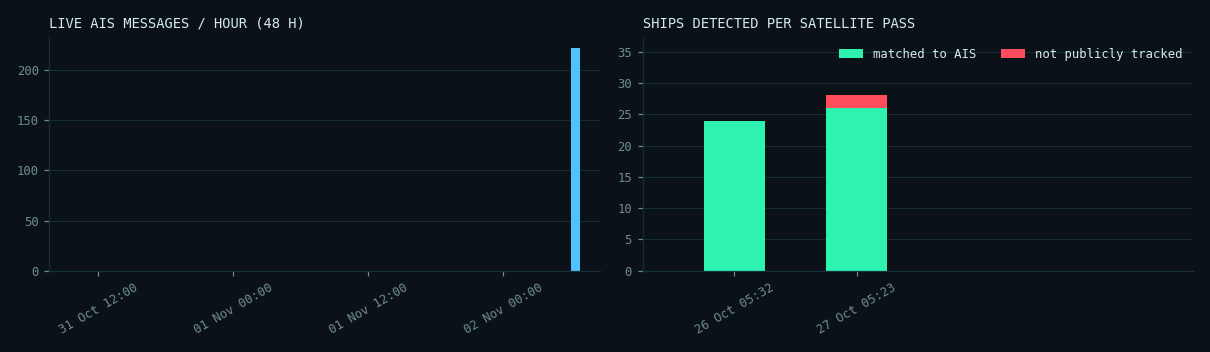
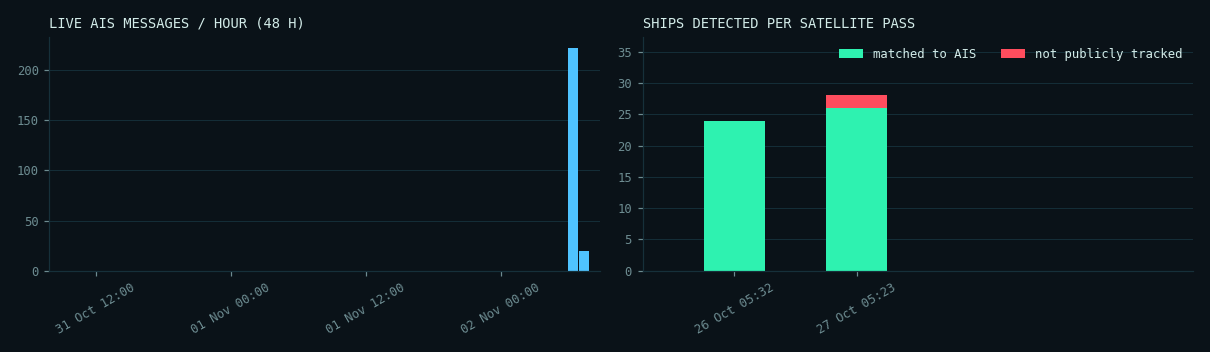
Automatic site update 2026-11-02 07:53 UTC

diff --git a/docs/denmark/index.html b/docs/denmark/index.html
@@ -80,15 +80,15 @@ footer{border-top:1px solid var(--line);padding:18px 0 28px;font:12px/1.6 var(--
 <header class="hud"><div class="wrap"><div class="hudrow">
  <a class="brand" href="../index.html"><div class="scope"><div class="sweep"></div><span class="blip" style="left:32px;top:14px"></span><span class="blip" style="left:15px;top:33px;animation-delay:1.1s"></span></div>
   <div><div class="kicker">SAR &times; AIS &middot; MARITIME AWARENESS</div><div class="title">DARK VESSEL <b>DETECTION</b></div></div></a>
- <div class="status"><span class="pill"><span class="dot off"></span>AIS FEED <strong>OFFLINE</strong></span>
+ <div class="status"><span class="pill"><span class="dot live"></span>AIS FEED <strong>LIVE</strong></span>
   <span class="pill">UTC <strong id="utc">--:--:--</strong></span>
-  <span class="pill">UPDATED <strong>02 Nov 07:39</strong></span></div>
+  <span class="pill">UPDATED <strong>02 Nov 07:53</strong></span></div>
 </div><nav class="tabs"><a class="" href="../index.html">OVERVIEW</a><a class="" href="../mumbai/index.html">MUMBAI</a><a class="on" href="../denmark/index.html">DENMARK</a><a class="" href="../nn/index.html">NEURAL NET</a><a class="" href="../demo/index.html">SIMULATION</a></nav></div></header>
 <main class="wrap"><div class="coords">SECTOR // DENMARK &middot; 55.55&ndash;55.85&deg;N &middot; 12.55&ndash;12.95&deg;E</div>
 <h1>Oresund, Copenhagen (Denmark/Sweden)</h1><p class="lede">Validation area. Sentinel-1 images it almost daily and coastal AIS coverage is dense, so the full match between radar and AIS can be shown and checked.</p>
 <div class="grid">
- <div class="panel"><div class="label">Live AIS feed</div><div class="value small"><span class='bad'>NO SIGNAL</span></div><div class="muted mono" style="font-size:12px;margin-top:6px">last message 43 min ago</div></div>
- <div class="panel"><div class="label">Ships broadcasting &middot; 30 min</div><div class="value cyan">0</div></div>
+ <div class="panel"><div class="label">Live AIS feed</div><div class="value small"><span class='ok'>RECEIVING</span></div><div class="muted mono" style="font-size:12px;margin-top:6px">last message 0 min ago</div></div>
+ <div class="panel"><div class="label">Ships broadcasting &middot; 30 min</div><div class="value cyan">19</div></div>
  <div class="panel"><div class="label">Matched &middot; latest pass</div><div class="value ">26</div></div>
  <div class="panel"><div class="label">Not tracked &middot; latest pass</div><div class="value red">2</div></div>
 </div>
@@ -96,7 +96,7 @@ footer{border-top:1px solid var(--line);padding:18px 0 28px;font:12px/1.6 var(--
 <div class="legend"><span><i style="background:var(--green)"></i>matched to AIS</span><span><i style="background:var(--red)"></i>not tracked &middot; high confidence</span>
 <span><i style="background:var(--amber)"></i>not tracked &middot; low confidence</span><span><i style="background:var(--cyan)"></i>live AIS position</span></div>
 <div id="map" class="map"></div><script>
-const D=[{"lon": 12.574560869565218, "lat": 55.849597826086956, "length_m": 72.681575622935, "score": 0.6554655519501138, "shore_km": 0.14150886088341372, "status": "matched", "reason": "", "confidence": "high", "crop": "", "ship_prob": 0.9335045218467712}, {"lon": 12.704759174311928, "lat": 55.82280412844037, "length_m": 364.1071436957287, "score": 0.9904753373251979, "shore_km": 9.407061429825474, "status": "matched", "reason": "", "confidence": "high", "crop": "", "ship_prob": 0.9868959784507751}, {"lon": 12.786416463414636, "lat": 55.804669512195126, "length_m": 155.0522474362954, "score": 0.9999646038759398, "shore_km": 4.658419014138412, "status": "matched", "reason": "", "confidence": "high", "crop": "", "ship_prob": 0.9993557333946228}, {"lon": 12.88229375, "lat": 55.849146875, "length_m": 53.38783327710226, "score": 0.9899546194309776, "shore_km": 0.9067240720863213, "status": "candidate", "reason": "same_spot_in_another_pass", "confidence": "low", "crop": "crops/S1-Oresund-20261027_37.png", "ship_prob": 0.7905591130256653}, {"lon": 12.604004166666668, "lat": 55.75985, "length_m": 141.84238362073958, "score": 0.6867268898684522, "shore_km": 0.07168283192738693, "status": "matched", "reason": "", "confidence": "high", "crop": "", "ship_prob": 0.5051270127296448}, {"lon": 12.605736764705883, "lat": 55.75241323529412, "length_m": 122.11483240811877, "score": 0.9136889320646264, "shore_km": 0.6454382429486746, "status": "candidate", "reason": "same_spot_in_another_pass", "confidence": "low", "crop": "crops/S1-Oresund-20261027_77.png", "ship_prob": 0.7927113175392151}, {"lon": 12.703722571428573, "lat": 55.77917742857143, "length_m": 223.0817648726515, "score": 0.9996320924909895, "shore_km": 5.943270442766068, "status": "matched", "reason": "", "confidence": "high", "crop": "", "ship_prob": 0.9938097596168518}, {"lon": 12.902757692307693, "lat": 55.75654230769231, "length_m": 65.46226537445588, "score": 0.7187896049600956, "shore_km": 0.03584141596369347, "status": "matched", "reason": "", "confidence": "high", "crop": "", "ship_prob": 0.8691755533218384}, {"lon": 12.589922222222222, "lat": 55.725764814814816, "length_m": 146.45480845096748, "score": 0.9957587025210503, "shore_km": 0.034771280891766385, "status": "matched", "reason": "", "confidence": "high", "crop": "", "ship_prob": 0.9983701109886169}, {"lon": 12.598472047244096, "lat": 55.72077913385827, "length_m": 207.62671185403417, "score": 0.609772230082722, "shore_km": 0.14016751439395445, "status": "matched", "reason": "", "confidence": "high", "crop": "", "ship_prob": 0.6074324250221252}, {"lon": 12.589218, "lat": 55.712854, "length_m": 90.49550243938293, "score": 0.6486089656085543, "shore_km": 0.043464101114707984, "status": "matched", "reason": "", "confidence": "high", "crop": "", "ship_prob": 0.9998902082443237}, {"lon": 12.59024090909091, "lat": 55.71147090909091, "length_m": 162.54265478639104, "score": 1.0, "shore_km": 0.06146752127277559, "status": "matched", "reason": "", "confidence": "high", "crop": "", "ship_prob": 0.9999992847442627}, {"lon": 12.597835937500001, "lat": 55.701648437500005, "length_m": 133.31776511703256, "score": 0.9396217092764791, "shore_km": 0.06789309632894441, "status": "matched", "reason": "", "confidence": "high", "crop": "", "ship_prob": 0.9999727010726929}, {"lon": 12.60914, "lat": 55.69712, "length_m": 65.36743236464424, "score": 0.7827588237578229, "shore_km": 0.03134240904220623, "status": "matched", "reason": "", "confidence": "high", "crop": "", "ship_prob": 0.9867132902145386}, {"lon": 12.668552272727274, "lat": 55.72007840909091, "length_m": 207.26605497726354, "score": 0.6251792307103263, "shore_km": 0.03584141596369347, "status": "matched", "reason": "", "confidence": "high", "crop": "", "ship_prob": 0.9087074398994446}, {"lon": 12.5996, "lat": 55.68885, "length_m": 40.00855981470757, "score": 0.7664068666153926, "shore_km": 0.024587008509110237, "status": "matched", "reason": "", "confidence": "high", "crop": "", "ship_prob": 0.9766618013381958}, {"lon": 12.595819230769232, "lat": 55.67989871794872, "length_m": 127.62371588738732, "score": 0.9426870407335851, "shore_km": 0.05068741655051085, "status": "matched", "reason": "", "confidence": "high", "crop": "", "ship_prob": 0.9998841285705566}, {"lon": 12.594722222222224, "lat": 55.67918888888889, "length_m": 40.64467714079742, "score": 0.7639524834029205, "shore_km": 0.043464101114707984, "status": "matched", "reason": "", "confidence": "high", "crop": "", "ship_prob": 0.9999454021453857}, {"lon": 12.610660714285714, "lat": 55.69618571428572, "length_m": 94.51225356515693, "score": 0.9621795096736379, "shore_km": 0.03134240904220623, "status": "matched", "reason": "", "confidence": "high", "crop": "", "ship_prob": 0.999042809009552}, {"lon": 12.649045000000001, "lat": 55.692155, "length_m": 80.63364746000343, "score": 0.8515033668168979, "shore_km": 0.8863693295037299, "status": "matched", "reason": "", "confidence": "high", "crop": "", "ship_prob": 0.4333752989768982}, {"lon": 12.630751724137932, "lat": 55.685453448275865, "length_m": 125.00287123881988, "score": 0.93629426700422, "shore_km": 0.043464101114707984, "status": "matched", "reason": "", "confidence": "high", "crop": "", "ship_prob": 0.9975905418395996}, {"lon": 12.634987254901962, "lat": 55.677338235294116, "length_m": 276.5478352749318, "score": 0.7686103584091717, "shore_km": 0.024587008509110237, "status": "matched", "reason": "", "confidence": "high", "crop": "", "ship_prob": 0.9729636907577515}, {"lon": 12.68766150442478, "lat": 55.69581814159292, "length_m": 176.8074930452176, "score": 0.923202226335388, "shore_km": 2.6834920471942074, "status": "matched", "reason": "", "confidence": "high", "crop": "", "ship_prob": 0.8427141904830933}, {"lon": 12.65826847826087, "lat": 55.63610108695652, "length_m": 174.21377549767067, "score": 0.9833187000337672, "shore_km": 0.043464101114707984, "status": "matched", "reason": "", "confidence": "high", "crop": "", "ship_prob": 0.9998973608016968}, {"lon": 12.680683333333334, "lat": 55.610910000000004, "length_m": 74.22790892756812, "score": 0.6314184609397504, "shore_km": 0.03134240904220623, "status": "matched", "reason": "", "confidence": "high", "crop": "", "ship_prob": 0.44054293632507324}, {"lon": 12.868352132196163, "lat": 55.60022420042644, "length_m": 299.20726350177785, "score": 0.9999960398718075, "shore_km": 2.8169298200726325, "status": "matched", "reason": "", "confidence": "high", "crop": "", "ship_prob": 0.9967911839485168}, {"lon": 12.680875, "lat": 55.59323, "length_m": 95.51211981545671, "score": 0.7585723176580392, "shore_km": 0.03584141596369347, "status": "matched", "reason": "", "confidence": "high", "crop": "", "ship_prob": 0.797581672668457}, {"lon": 12.706387741935485, "lat": 55.56306903225806, "length_m": 301.4640427512081, "score": 0.9999731380181186, "shore_km": 3.1965238712919084, "status": "matched", "reason": "", "confidence": "high", "crop": "", "ship_prob": 0.9941650032997131}],LIVE=[],B=[[55.55,12.55],[55.85,12.95]];const m=L.map('map',{zoomSnap:.25}).fitBounds(B);
+const D=[{"lon": 12.574560869565218, "lat": 55.849597826086956, "length_m": 72.681575622935, "score": 0.6554655519501138, "shore_km": 0.14150886088341372, "status": "matched", "reason": "", "confidence": "high", "crop": "", "ship_prob": 0.9335045218467712}, {"lon": 12.704759174311928, "lat": 55.82280412844037, "length_m": 364.1071436957287, "score": 0.9904753373251979, "shore_km": 9.407061429825474, "status": "matched", "reason": "", "confidence": "high", "crop": "", "ship_prob": 0.9868959784507751}, {"lon": 12.786416463414636, "lat": 55.804669512195126, "length_m": 155.0522474362954, "score": 0.9999646038759398, "shore_km": 4.658419014138412, "status": "matched", "reason": "", "confidence": "high", "crop": "", "ship_prob": 0.9993557333946228}, {"lon": 12.88229375, "lat": 55.849146875, "length_m": 53.38783327710226, "score": 0.9899546194309776, "shore_km": 0.9067240720863213, "status": "candidate", "reason": "same_spot_in_another_pass", "confidence": "low", "crop": "crops/S1-Oresund-20261027_37.png", "ship_prob": 0.7905591130256653}, {"lon": 12.604004166666668, "lat": 55.75985, "length_m": 141.84238362073958, "score": 0.6867268898684522, "shore_km": 0.07168283192738693, "status": "matched", "reason": "", "confidence": "high", "crop": "", "ship_prob": 0.5051270127296448}, {"lon": 12.605736764705883, "lat": 55.75241323529412, "length_m": 122.11483240811877, "score": 0.9136889320646264, "shore_km": 0.6454382429486746, "status": "candidate", "reason": "same_spot_in_another_pass", "confidence": "low", "crop": "crops/S1-Oresund-20261027_77.png", "ship_prob": 0.7927113175392151}, {"lon": 12.703722571428573, "lat": 55.77917742857143, "length_m": 223.0817648726515, "score": 0.9996320924909895, "shore_km": 5.943270442766068, "status": "matched", "reason": "", "confidence": "high", "crop": "", "ship_prob": 0.9938097596168518}, {"lon": 12.902757692307693, "lat": 55.75654230769231, "length_m": 65.46226537445588, "score": 0.7187896049600956, "shore_km": 0.03584141596369347, "status": "matched", "reason": "", "confidence": "high", "crop": "", "ship_prob": 0.8691755533218384}, {"lon": 12.589922222222222, "lat": 55.725764814814816, "length_m": 146.45480845096748, "score": 0.9957587025210503, "shore_km": 0.034771280891766385, "status": "matched", "reason": "", "confidence": "high", "crop": "", "ship_prob": 0.9983701109886169}, {"lon": 12.598472047244096, "lat": 55.72077913385827, "length_m": 207.62671185403417, "score": 0.609772230082722, "shore_km": 0.14016751439395445, "status": "matched", "reason": "", "confidence": "high", "crop": "", "ship_prob": 0.6074324250221252}, {"lon": 12.589218, "lat": 55.712854, "length_m": 90.49550243938293, "score": 0.6486089656085543, "shore_km": 0.043464101114707984, "status": "matched", "reason": "", "confidence": "high", "crop": "", "ship_prob": 0.9998902082443237}, {"lon": 12.59024090909091, "lat": 55.71147090909091, "length_m": 162.54265478639104, "score": 1.0, "shore_km": 0.06146752127277559, "status": "matched", "reason": "", "confidence": "high", "crop": "", "ship_prob": 0.9999992847442627}, {"lon": 12.597835937500001, "lat": 55.701648437500005, "length_m": 133.31776511703256, "score": 0.9396217092764791, "shore_km": 0.06789309632894441, "status": "matched", "reason": "", "confidence": "high", "crop": "", "ship_prob": 0.9999727010726929}, {"lon": 12.60914, "lat": 55.69712, "length_m": 65.36743236464424, "score": 0.7827588237578229, "shore_km": 0.03134240904220623, "status": "matched", "reason": "", "confidence": "high", "crop": "", "ship_prob": 0.9867132902145386}, {"lon": 12.668552272727274, "lat": 55.72007840909091, "length_m": 207.26605497726354, "score": 0.6251792307103263, "shore_km": 0.03584141596369347, "status": "matched", "reason": "", "confidence": "high", "crop": "", "ship_prob": 0.9087074398994446}, {"lon": 12.5996, "lat": 55.68885, "length_m": 40.00855981470757, "score": 0.7664068666153926, "shore_km": 0.024587008509110237, "status": "matched", "reason": "", "confidence": "high", "crop": "", "ship_prob": 0.9766618013381958}, {"lon": 12.595819230769232, "lat": 55.67989871794872, "length_m": 127.62371588738732, "score": 0.9426870407335851, "shore_km": 0.05068741655051085, "status": "matched", "reason": "", "confidence": "high", "crop": "", "ship_prob": 0.9998841285705566}, {"lon": 12.594722222222224, "lat": 55.67918888888889, "length_m": 40.64467714079742, "score": 0.7639524834029205, "shore_km": 0.043464101114707984, "status": "matched", "reason": "", "confidence": "high", "crop": "", "ship_prob": 0.9999454021453857}, {"lon": 12.610660714285714, "lat": 55.69618571428572, "length_m": 94.51225356515693, "score": 0.9621795096736379, "shore_km": 0.03134240904220623, "status": "matched", "reason": "", "confidence": "high", "crop": "", "ship_prob": 0.999042809009552}, {"lon": 12.649045000000001, "lat": 55.692155, "length_m": 80.63364746000343, "score": 0.8515033668168979, "shore_km": 0.8863693295037299, "status": "matched", "reason": "", "confidence": "high", "crop": "", "ship_prob": 0.4333752989768982}, {"lon": 12.630751724137932, "lat": 55.685453448275865, "length_m": 125.00287123881988, "score": 0.93629426700422, "shore_km": 0.043464101114707984, "status": "matched", "reason": "", "confidence": "high", "crop": "", "ship_prob": 0.9975905418395996}, {"lon": 12.634987254901962, "lat": 55.677338235294116, "length_m": 276.5478352749318, "score": 0.7686103584091717, "shore_km": 0.024587008509110237, "status": "matched", "reason": "", "confidence": "high", "crop": "", "ship_prob": 0.9729636907577515}, {"lon": 12.68766150442478, "lat": 55.69581814159292, "length_m": 176.8074930452176, "score": 0.923202226335388, "shore_km": 2.6834920471942074, "status": "matched", "reason": "", "confidence": "high", "crop": "", "ship_prob": 0.8427141904830933}, {"lon": 12.65826847826087, "lat": 55.63610108695652, "length_m": 174.21377549767067, "score": 0.9833187000337672, "shore_km": 0.043464101114707984, "status": "matched", "reason": "", "confidence": "high", "crop": "", "ship_prob": 0.9998973608016968}, {"lon": 12.680683333333334, "lat": 55.610910000000004, "length_m": 74.22790892756812, "score": 0.6314184609397504, "shore_km": 0.03134240904220623, "status": "matched", "reason": "", "confidence": "high", "crop": "", "ship_prob": 0.44054293632507324}, {"lon": 12.868352132196163, "lat": 55.60022420042644, "length_m": 299.20726350177785, "score": 0.9999960398718075, "shore_km": 2.8169298200726325, "status": "matched", "reason": "", "confidence": "high", "crop": "", "ship_prob": 0.9967911839485168}, {"lon": 12.680875, "lat": 55.59323, "length_m": 95.51211981545671, "score": 0.7585723176580392, "shore_km": 0.03584141596369347, "status": "matched", "reason": "", "confidence": "high", "crop": "", "ship_prob": 0.797581672668457}, {"lon": 12.706387741935485, "lat": 55.56306903225806, "length_m": 301.4640427512081, "score": 0.9999731380181186, "shore_km": 3.1965238712919084, "status": "matched", "reason": "", "confidence": "high", "crop": "", "ship_prob": 0.9941650032997131}],LIVE=[{"lon": 12.598646666666667, "lat": 55.71075833333334, "sog": 0.0, "age": 1}, {"lon": 12.903486666666668, "lat": 55.756631666666664, "sog": 0.1, "age": 1}, {"lon": 12.603518333333334, "lat": 55.760578333333335, "sog": 0.0, "age": 1}, {"lon": 12.744443333333333, "lat": 55.993219999999994, "sog": 0.0, "age": 1}, {"lon": 12.640116666666668, "lat": 55.684023333333336, "sog": 0.0, "age": 1}, {"lon": 12.676131666666667, "lat": 55.593650000000004, "sog": 0.0, "age": 1}, {"lon": 12.494288333333333, "lat": 55.54042666666667, "sog": 9.3, "age": 1}, {"lon": 12.660958333333333, "lat": 55.879194999999996, "sog": 16.6, "age": 1}, {"lon": 12.572728333333334, "lat": 55.85086166666667, "sog": 0.0, "age": 1}, {"lon": 12.68785, "lat": 55.65674166666667, "sog": 10.9, "age": 1}, {"lon": 12.593525, "lat": 55.67914666666666, "sog": 0.0, "age": 1}, {"lon": 12.645355, "lat": 55.678823333333334, "sog": 0.0, "age": 1}, {"lon": 12.990338333333334, "lat": 55.62685333333333, "sog": 0.0, "age": 0}, {"lon": 12.634881666666667, "lat": 55.68714666666666, "sog": 0.0, "age": 0}, {"lon": 12.785676666666665, "lat": 55.80225166666666, "sog": 11.9, "age": 0}, {"lon": 12.693533333333333, "lat": 55.6357, "sog": 11.1, "age": 0}, {"lon": 12.701271666666665, "lat": 55.59233, "sog": 11.0, "age": 0}, {"lon": 12.724615, "lat": 55.903128333333335, "sog": 4.3, "age": 0}, {"lon": 12.6875, "lat": 55.83633, "sog": 13.5, "age": 0}],B=[[55.55,12.55],[55.85,12.95]];const m=L.map('map',{zoomSnap:.25}).fitBounds(B);
 // re-fit once layout has settled: if the container had no size when the map was created, Leaflet falls back to zoom 0
 const refit=()=>{m.invalidateSize();m.fitBounds(B);};setTimeout(refit,0);window.addEventListener('load',refit);
 // standard OSM tiles (no API key), turned into a dark "radar console" basemap with a CSS filter (.radar-tiles)
@@ -114,7 +114,7 @@ L.control.layers(null,{'Radar detections (selected pass)':det,'Live AIS, last 30
 </script>
 <h2>Pass log</h2><div class='tablewrap'><table><thead><tr><th>pass (UTC)</th><th>ships</th><th>matched</th><th>not tracked</th><th>low conf.</th><th>match rate</th><th>AIS msgs</th></tr></thead><tbody><tr><td>2026-10-27 05:23 UTC</td><td>28</td><td class='ok'>26</td><td class='bad'>0</td><td style='color:var(--amber)'>2</td><td>93%</td><td>10687</td></tr><tr><td>2026-10-26 05:32 UTC</td><td>24</td><td class='ok'>24</td><td class='bad'>0</td><td style='color:var(--amber)'>0</td><td>100%</td><td>11603</td></tr></tbody></table></div>
 <h2>Telemetry</h2><img class="chart" src="charts.png" alt="AIS messages per hour and ships detected per pass">
-<p class="muted mono" style="font-size:12px">Feed gaps in the last 24 h: 1 (2 min) &middot; AIS messages in the last hour: 166</p>
+<p class="muted mono" style="font-size:12px">Feed gaps in the last 24 h: 2 (58 min) &middot; AIS messages in the last hour: 49</p>
 <h2>Recent Sentinel-1 acquisitions</h2><ul class="acq"><li>2026-11-01 16:44 UTC</li><li>2026-11-01 05:31 UTC</li><li>2026-10-31 16:52 UTC</li><li>2026-10-30 17:00 UTC</li><li>2026-10-27 05:23 UTC</li><li>2026-10-26 05:32 UTC</li><li>2026-10-25 16:52 UTC</li><li>2026-10-24 17:00 UTC</li></ul></main>
 <footer><div class="wrap">Data: Copernicus Sentinel-1 (ESA) &middot; AIS via aisstream.io and the Danish Maritime Authority &middot;
 coastlines, structures and basemap &copy; OpenStreetMap contributors. Flags are candidates for review, not accusations.</div></footer>

diff --git a/docs/index.html b/docs/index.html
@@ -80,16 +80,16 @@ footer{border-top:1px solid var(--line);padding:18px 0 28px;font:12px/1.6 var(--
 <header class="hud"><div class="wrap"><div class="hudrow">
  <a class="brand" href="index.html"><div class="scope"><div class="sweep"></div><span class="blip" style="left:32px;top:14px"></span><span class="blip" style="left:15px;top:33px;animation-delay:1.1s"></span></div>
   <div><div class="kicker">SAR &times; AIS &middot; MARITIME AWARENESS</div><div class="title">DARK VESSEL <b>DETECTION</b></div></div></a>
- <div class="status"><span class="pill"><span class="dot off"></span>AIS FEED <strong>OFFLINE</strong></span>
+ <div class="status"><span class="pill"><span class="dot live"></span>AIS FEED <strong>LIVE</strong></span>
   <span class="pill">UTC <strong id="utc">--:--:--</strong></span>
-  <span class="pill">UPDATED <strong>02 Nov 07:39</strong></span></div>
+  <span class="pill">UPDATED <strong>02 Nov 07:53</strong></span></div>
 </div><nav class="tabs"><a class="on" href="index.html">OVERVIEW</a><a class="" href="mumbai/index.html">MUMBAI</a><a class="" href="denmark/index.html">DENMARK</a><a class="" href="nn/index.html">NEURAL NET</a><a class="" href="demo/index.html">SIMULATION</a></nav></div></header>
 <main class="wrap"><div class="coords">SYSTEM OVERVIEW</div>
 <h1>Ships the radar sees that nobody is tracking</h1>
 <p class="lede">Radar satellites see ships whether or not they announce themselves. AIS is what ships broadcast about themselves.
 This system compares the two after every Sentinel-1 pass and lists the ships that appear on radar with no matching AIS signal.</p>
 <div class="grid" style="margin-top:18px"><div class="panel"><div class="label">Satellite passes processed</div><div class="value ">3</div></div><div class="panel"><div class="label">Ships matched to AIS</div><div class="value ">50</div></div>
-<div class="panel"><div class="label">Not publicly tracked</div><div class="value red">155</div></div><div class="panel"><div class="label">Broadcasting now &middot; 30 min</div><div class="value cyan">0</div></div></div>
+<div class="panel"><div class="label">Not publicly tracked</div><div class="value red">155</div></div><div class="panel"><div class="label">Broadcasting now &middot; 30 min</div><div class="value cyan">19</div></div></div>
 <h2>Pipeline</h2><div class="flow"><div class="step"><div class="n">01</div><div class="t">Radar image</div><div class="d">Sentinel-1 sees every large ship, day or night, through cloud.</div></div><div class="step"><div class="n">02</div><div class="t">Detect</div><div class="d">CFAR finds bright targets on dark sea; land, bridges and buoys are masked.</div></div><div class="step"><div class="n">03</div><div class="t">Align AIS</div><div class="d">Each ship's last AIS report is moved along its course to the exact image time.</div></div><div class="step"><div class="n">04</div><div class="t">Match</div><div class="d">The Hungarian algorithm pairs radar targets with AIS ships within a speed-aware radius.</div></div><div class="step"><div class="n">05</div><div class="t">Flag</div><div class="d">Unmatched targets become candidates, with an honest confidence label.</div></div></div>
 <h2>Sectors</h2><div class="grid"><a class="panel region" href="mumbai/index.html"><div class="label">Sector // MUMBAI</div>
 <div class="rt">Mumbai coast and harbour, India</div>
@@ -102,14 +102,14 @@ This system compares the two after every Sentinel-1 pass and lists the ships tha
 <div class="kv"><span>passes processed</span><span>2</span></div>
 <div class="kv"><span>ships matched to AIS</span><span class="ok">50</span></div>
 <div class="kv"><span>not publicly tracked</span><span class="bad">2</span></div>
-<div class="kv"><span>broadcasting now (30 min)</span><span style="color:var(--cyan)">0</span></div>
+<div class="kv"><span>broadcasting now (30 min)</span><span style="color:var(--cyan)">19</span></div>
 <div class="go">OPEN SECTOR &rarr;</div></a></div>
 <h2>Read before trusting a flag</h2>
 <div class="alert"><b>"Not publicly tracked" is not "switched off".</b> Small boats often carry no public AIS, free AIS comes from coastal
 receivers with limited range, and ships under about 40 m are not reliably visible to the satellite. Low-confidence flags are the ones the
 data cannot support: beyond receiver range, during an AIS feed gap, or with no AIS recorded.</div>
 <h2>Automatic runs</h2><p class="muted mono" style="font-size:12.5px;margin-top:-4px">Rebuilt on a schedule from the live AIS recording. Newest first.</p>
-<div class="tablewrap"><table><thead><tr><th>run (UTC)</th><th>mumbai live</th><th>mumbai msg/h</th><th>denmark live</th><th>denmark msg/h</th></tr></thead><tbody><tr><td>2026-11-02 07:39</td><td>0</td><td>0</td><td>0</td><td>166</td></tr><tr><td>2026-11-02 07:27</td><td>0</td><td>0</td><td>0</td><td>222</td></tr><tr><td>2026-11-02 06:48</td><td>0</td><td>0</td><td>58</td><td>148</td></tr><tr><td>2026-11-02 06:33</td><td>0</td><td>0</td><td>5</td><td>6</td></tr><tr><td>2026-11-02 06:29</td><td>0</td><td>0</td><td>0</td><td>0</td></tr><tr><td>2026-11-02 06:25</td><td>0</td><td>0</td><td>0</td><td>0</td></tr><tr><td>2026-11-02 06:20</td><td>0</td><td>0</td><td>0</td><td>0</td></tr><tr><td>2026-11-02 06:10</td><td>0</td><td>0</td><td>0</td><td>0</td></tr><tr><td>2026-11-02 05:55</td><td>0</td><td>0</td><td>36</td><td>341</td></tr><tr><td>2026-11-02 05:40</td><td>0</td><td>0</td><td>38</td><td>353</td></tr><tr><td>2026-11-02 05:24</td><td>0</td><td>0</td><td>35</td><td>311</td></tr><tr><td>2026-11-02 05:09</td><td>0</td><td>0</td><td>36</td><td>222</td></tr><tr><td>2026-11-02 04:54</td><td>0</td><td>0</td><td>36</td><td>144</td></tr><tr><td>2026-11-02 04:50</td><td>0</td><td>0</td><td>33</td><td>110</td></tr><tr><td>2026-11-02 04:49</td><td>0</td><td>0</td><td>33</td><td>110</td></tr><tr><td>2026-11-02 04:49</td><td>0</td><td>0</td><td>32</td><td>108</td></tr><tr><td>2026-11-02 04:48</td><td>0</td><td>0</td><td>32</td><td>106</td></tr><tr><td>2026-11-02 04:47</td><td>0</td><td>0</td><td>32</td><td>104</td></tr><tr><td>2026-11-02 04:47</td><td>0</td><td>0</td><td>32</td><td>98</td></tr><tr><td>2026-11-02 04:27</td><td>0</td><td>0</td><td>6</td><td>6</td></tr><tr><td>2026-11-02 04:26</td><td>0</td><td>0</td><td>4</td><td>4</td></tr></tbody></table></div></main>
+<div class="tablewrap"><table><thead><tr><th>run (UTC)</th><th>mumbai live</th><th>mumbai msg/h</th><th>denmark live</th><th>denmark msg/h</th></tr></thead><tbody><tr><td>2026-11-02 07:53</td><td>0</td><td>0</td><td>19</td><td>49</td></tr><tr><td>2026-11-02 07:39</td><td>0</td><td>0</td><td>0</td><td>166</td></tr><tr><td>2026-11-02 07:27</td><td>0</td><td>0</td><td>0</td><td>222</td></tr><tr><td>2026-11-02 06:48</td><td>0</td><td>0</td><td>58</td><td>148</td></tr><tr><td>2026-11-02 06:33</td><td>0</td><td>0</td><td>5</td><td>6</td></tr><tr><td>2026-11-02 06:29</td><td>0</td><td>0</td><td>0</td><td>0</td></tr><tr><td>2026-11-02 06:25</td><td>0</td><td>0</td><td>0</td><td>0</td></tr><tr><td>2026-11-02 06:20</td><td>0</td><td>0</td><td>0</td><td>0</td></tr><tr><td>2026-11-02 06:10</td><td>0</td><td>0</td><td>0</td><td>0</td></tr><tr><td>2026-11-02 05:55</td><td>0</td><td>0</td><td>36</td><td>341</td></tr><tr><td>2026-11-02 05:40</td><td>0</td><td>0</td><td>38</td><td>353</td></tr><tr><td>2026-11-02 05:24</td><td>0</td><td>0</td><td>35</td><td>311</td></tr><tr><td>2026-11-02 05:09</td><td>0</td><td>0</td><td>36</td><td>222</td></tr><tr><td>2026-11-02 04:54</td><td>0</td><td>0</td><td>36</td><td>144</td></tr><tr><td>2026-11-02 04:50</td><td>0</td><td>0</td><td>33</td><td>110</td></tr><tr><td>2026-11-02 04:49</td><td>0</td><td>0</td><td>33</td><td>110</td></tr><tr><td>2026-11-02 04:49</td><td>0</td><td>0</td><td>32</td><td>108</td></tr><tr><td>2026-11-02 04:48</td><td>0</td><td>0</td><td>32</td><td>106</td></tr><tr><td>2026-11-02 04:47</td><td>0</td><td>0</td><td>32</td><td>104</td></tr><tr><td>2026-11-02 04:47</td><td>0</td><td>0</td><td>32</td><td>98</td></tr><tr><td>2026-11-02 04:27</td><td>0</td><td>0</td><td>6</td><td>6</td></tr><tr><td>2026-11-02 04:26</td><td>0</td><td>0</td><td>4</td><td>4</td></tr></tbody></table></div></main>
 <footer><div class="wrap">Data: Copernicus Sentinel-1 (ESA) &middot; AIS via aisstream.io and the Danish Maritime Authority &middot;
 coastlines, structures and basemap &copy; OpenStreetMap contributors. Flags are candidates for review, not accusations.</div></footer>
 <script>(function(){const e=document.getElementById('utc');const t=()=>e.textContent=new Date().toISOString().slice(11,19);t();setInterval(t,1000);})();</script>

diff --git a/docs/mumbai/index.html b/docs/mumbai/index.html
@@ -80,9 +80,9 @@ footer{border-top:1px solid var(--line);padding:18px 0 28px;font:12px/1.6 var(--
 <header class="hud"><div class="wrap"><div class="hudrow">
  <a class="brand" href="../index.html"><div class="scope"><div class="sweep"></div><span class="blip" style="left:32px;top:14px"></span><span class="blip" style="left:15px;top:33px;animation-delay:1.1s"></span></div>
   <div><div class="kicker">SAR &times; AIS &middot; MARITIME AWARENESS</div><div class="title">DARK VESSEL <b>DETECTION</b></div></div></a>
- <div class="status"><span class="pill"><span class="dot off"></span>AIS FEED <strong>OFFLINE</strong></span>
+ <div class="status"><span class="pill"><span class="dot live"></span>AIS FEED <strong>LIVE</strong></span>
   <span class="pill">UTC <strong id="utc">--:--:--</strong></span>
-  <span class="pill">UPDATED <strong>02 Nov 07:39</strong></span></div>
+  <span class="pill">UPDATED <strong>02 Nov 07:53</strong></span></div>
 </div><nav class="tabs"><a class="" href="../index.html">OVERVIEW</a><a class="on" href="../mumbai/index.html">MUMBAI</a><a class="" href="../denmark/index.html">DENMARK</a><a class="" href="../nn/index.html">NEURAL NET</a><a class="" href="../demo/index.html">SIMULATION</a></nav></div></header>
 <main class="wrap"><div class="coords">SECTOR // MUMBAI &middot; 18.80&ndash;19.10&deg;N &middot; 72.55&ndash;72.95&deg;E</div>
 <h1>Mumbai coast and harbour, India</h1><p class="lede">The project's target area. Sentinel-1 images it about once every 12 days, and free AIS comes only from coastal receivers, so many unmatched ships here are simply out of receiver range.</p>
@@ -114,7 +114,7 @@ L.control.layers(null,{'Radar detections (selected pass)':det,'Live AIS, last 30
 </script>
 <h2>Pass log</h2><div class='tablewrap'><table><thead><tr><th>pass (UTC)</th><th>ships</th><th>matched</th><th>not tracked</th><th>low conf.</th><th>match rate</th><th>AIS msgs</th></tr></thead><tbody><tr><td>2026-10-24 01:02 UTC</td><td>153</td><td class='ok'>0</td><td class='bad'>0</td><td style='color:var(--amber)'>153</td><td>0%</td><td>0</td></tr></tbody></table></div>
 <h2>Telemetry</h2><img class="chart" src="charts.png" alt="AIS messages per hour and ships detected per pass">
-<p class="muted mono" style="font-size:12px">Feed gaps in the last 24 h: 1 (2 min) &middot; AIS messages in the last hour: 0</p>
+<p class="muted mono" style="font-size:12px">Feed gaps in the last 24 h: 2 (58 min) &middot; AIS messages in the last hour: 0</p>
 <h2>Recent Sentinel-1 acquisitions</h2><ul class="acq"><li>2026-10-24 01:02 UTC</li></ul></main>
 <footer><div class="wrap">Data: Copernicus Sentinel-1 (ESA) &middot; AIS via aisstream.io and the Danish Maritime Authority &middot;
 coastlines, structures and basemap &copy; OpenStreetMap contributors. Flags are candidates for review, not accusations.</div></footer>

diff --git a/docs/demo/index.html b/docs/demo/index.html
@@ -80,9 +80,9 @@ footer{border-top:1px solid var(--line);padding:18px 0 28px;font:12px/1.6 var(--
 <header class="hud"><div class="wrap"><div class="hudrow">
  <a class="brand" href="../index.html"><div class="scope"><div class="sweep"></div><span class="blip" style="left:32px;top:14px"></span><span class="blip" style="left:15px;top:33px;animation-delay:1.1s"></span></div>
   <div><div class="kicker">SAR &times; AIS &middot; MARITIME AWARENESS</div><div class="title">DARK VESSEL <b>DETECTION</b></div></div></a>
- <div class="status"><span class="pill"><span class="dot off"></span>AIS FEED <strong>OFFLINE</strong></span>
+ <div class="status"><span class="pill"><span class="dot live"></span>AIS FEED <strong>LIVE</strong></span>
   <span class="pill">UTC <strong id="utc">--:--:--</strong></span>
-  <span class="pill">UPDATED <strong>02 Nov 07:39</strong></span></div>
+  <span class="pill">UPDATED <strong>02 Nov 07:53</strong></span></div>
 </div><nav class="tabs"><a class="" href="../index.html">OVERVIEW</a><a class="" href="../mumbai/index.html">MUMBAI</a><a class="" href="../denmark/index.html">DENMARK</a><a class="" href="../nn/index.html">NEURAL NET</a><a class="on" href="../demo/index.html">SIMULATION</a></nav></div></header>
 <main class="wrap"><div class="coords">SIMULATION // SYNTHETIC SCENES WITH KNOWN GROUND TRUTH</div>
 <h1>Simulation: the whole pipeline with a known answer</h1>

diff --git a/docs/nn/index.html b/docs/nn/index.html
@@ -80,9 +80,9 @@ footer{border-top:1px solid var(--line);padding:18px 0 28px;font:12px/1.6 var(--
 <header class="hud"><div class="wrap"><div class="hudrow">
  <a class="brand" href="../index.html"><div class="scope"><div class="sweep"></div><span class="blip" style="left:32px;top:14px"></span><span class="blip" style="left:15px;top:33px;animation-delay:1.1s"></span></div>
   <div><div class="kicker">SAR &times; AIS &middot; MARITIME AWARENESS</div><div class="title">DARK VESSEL <b>DETECTION</b></div></div></a>
- <div class="status"><span class="pill"><span class="dot off"></span>AIS FEED <strong>OFFLINE</strong></span>
+ <div class="status"><span class="pill"><span class="dot live"></span>AIS FEED <strong>LIVE</strong></span>
   <span class="pill">UTC <strong id="utc">--:--:--</strong></span>
-  <span class="pill">UPDATED <strong>02 Nov 07:39</strong></span></div>
+  <span class="pill">UPDATED <strong>02 Nov 07:53</strong></span></div>
 </div><nav class="tabs"><a class="" href="../index.html">OVERVIEW</a><a class="" href="../mumbai/index.html">MUMBAI</a><a class="" href="../denmark/index.html">DENMARK</a><a class="on" href="../nn/index.html">NEURAL NET</a><a class="" href="../demo/index.html">SIMULATION</a></nav></div></header>
 <main class="wrap"><div class="coords">NEURAL NETWORK // SHIPCNN</div>
 <h1>ShipCNN: our own convolutional network that decides "is this a ship?"</h1>
